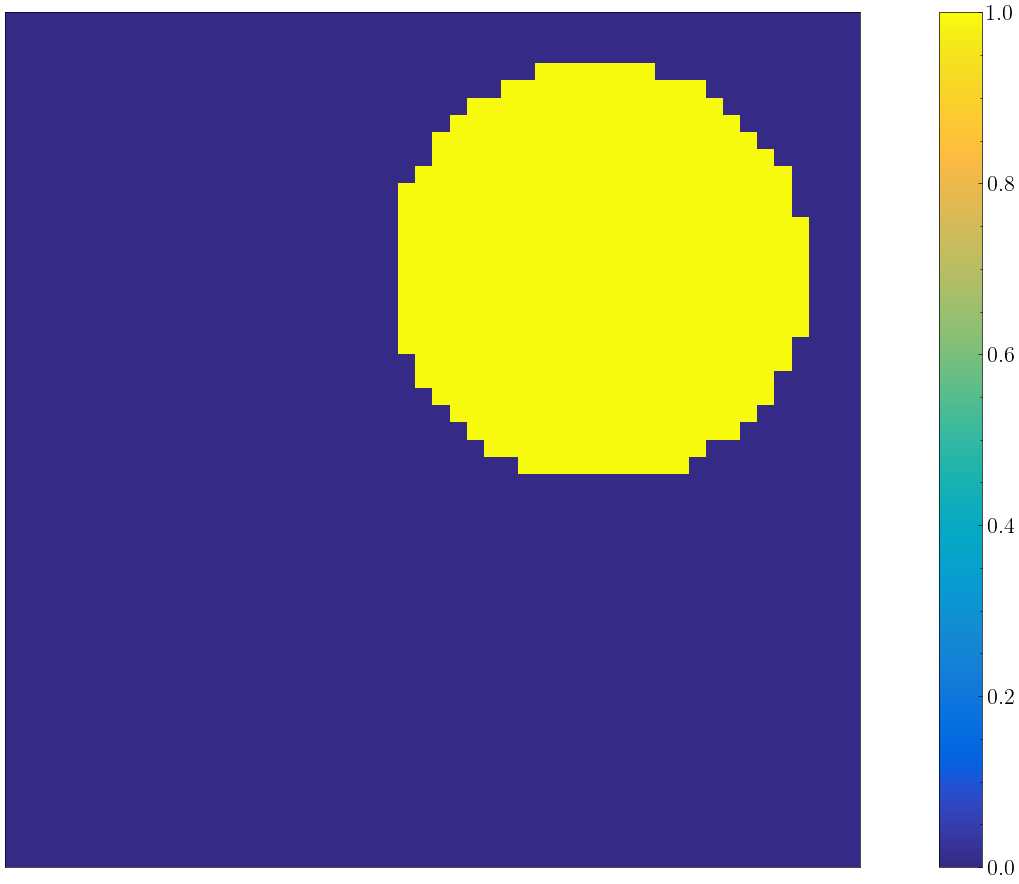
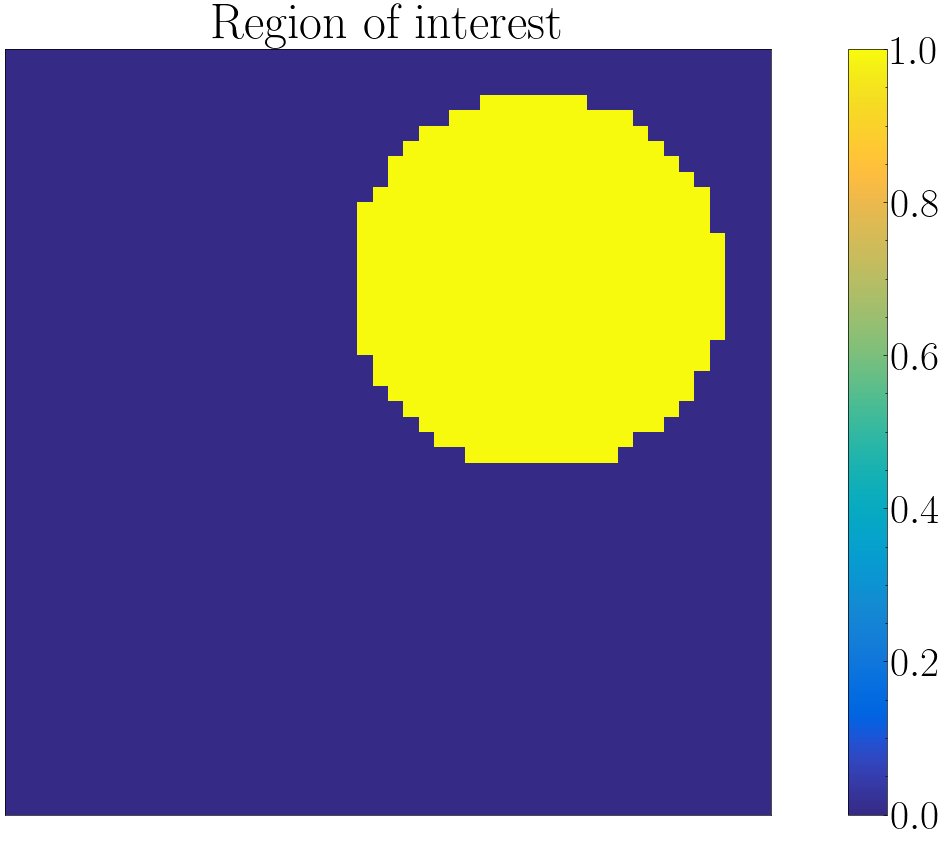
New experiments

diff --git a/Code/TVpriorAlgorithm.py b/Code/TVpriorAlgorithm.py
@@ -31,7 +31,7 @@ def run_algorithm():
     PLOT_TARGET = True
     CALCULATE_PROJECTION_MATRICIES = True  # calculate the x ray matrix again or read from memory
     TRACK_PHI_A = True  # track the target function on every picture during gradient descent
-    PLOT_COVARIANCE = True  # Take 4 samples from the posterior covariance matrix
+    PLOT_COVARIANCE = False  # Take 4 samples from the posterior covariance matrix
     PLOT_STD = True  # Reconstruct the image based on the standard deviations
     PLOT_D = True  # plot the vector d as a function of it's indicies
     PLOT_RECONSTRUCTION = True  # plot the posterior mean of the distribution for the image
@@ -46,15 +46,15 @@ def run_algorithm():
     # line search parameters
     max_length = 10
     barrier_const = 0.00001
-    dose_limit = 100_000
-    initial_d = 0.1
+    dose_limit = 1_000_000
+    initial_d = 0.05
     epsilon_d = 1e-6
 
     # initialise parameters for algorithm
     learning_rate = 0.01
     relative_tolerance = 0.001
     rng = np.random.default_rng(1)
-    number_of_rounds = 10
+    number_of_rounds = 6
     iter_per_round = 20
 
     # parameters for lagged diffusivity iteration
@@ -69,7 +69,7 @@ def run_algorithm():
     coordinates = np.column_stack([X.ravel(), Y.ravel()])
 
     # define ROI
-    ROI = "whole"
+    ROI = "center circle"
     if ROI == "whole":
         A = np.ones((N, N))
     elif ROI == "offset circle":
@@ -90,7 +90,7 @@ def run_algorithm():
     A = csc_array(np.diag(A)) # after this A is the same as Weight in matlab
 
     # define the target
-    TARGET = "horseshoe"
+    TARGET = "shepp-logan-phantom"
     if TARGET == "bar":
         target_data = np.logical_and((np.abs(Y + 0.2) < 0.05), np.abs(X) < 0.45)
     elif TARGET == "circle":
@@ -279,6 +279,11 @@ def run_algorithm():
         gamma_noise = np.diag(d ** 2) + epsilon * np.eye(k * m)
         sample_noise = rng.multivariate_normal(noise_mean, gamma_noise, method='cholesky')
         sample_y = R_k @ target_data + sample_noise
+        plt.plot(R_k @ target_data, label="true")
+        plt.plot(sample_y, label="sample")
+        plt.plot(sample_noise, label="noise")
+        plt.legend()
+        plt.show()
 
         # determine the current posterior mean and covariance matrix
         x_posterior = compute_reco(R_k, sample_y, gamma_noise, inv_gamma_prior, T, gamma, N, tau)
@@ -360,7 +365,7 @@ def plot_d(d, k, m):
 def plot_reconstruction(x_prior, N):
     reconstruction = x_prior.reshape(N, N, order='F')
     fig, ax = plt.subplots()
-    im = ax.imshow(reconstruction, cmap=parula_map, interpolation='nearest', origin='lower')#, vmin=0, vmax=1)
+    im = ax.imshow(reconstruction, cmap=parula_map, interpolation='nearest', origin='lower', vmin=0, vmax=1)
     fig.colorbar(im, ax=ax)
     ax.set_title("ROI reconstruction")
 

diff --git a/Code/Algorithm.py b/Code/Algorithm.py
@@ -42,19 +42,19 @@ def run_algorithm():
     m = 40  # number of sensors
     epsilon = 1e-10
     offset_range = 0.8  # the maximum and minimum offset
-    initial_d = 0.1
+    initial_d = 0.5
     epsilon_d = 1e-6
     # line search parameters
     max_length = 10
     barrier_const = 0.00001
-    dose_limit = 100_000
+    dose_limit = 200_000
 
     # initialise parameters for algorithm
     learning_rate = 0.01
     relative_tolerance = 0.001
     iter_per_round = 20
     rng = np.random.default_rng(1)
-    number_of_rounds = 10
+    number_of_rounds = 6
 
     # define the grid
     x = np.linspace(-0.5, 0.5, N)
@@ -63,11 +63,11 @@ def run_algorithm():
     coordinates = np.column_stack([X.ravel(), Y.ravel()])
 
     # define the priors
-    gamma_prior = gaussian_distance_covariance(coordinates, 1, 0.1) + epsilon * np.eye(n)
+    gamma_prior = gaussian_distance_covariance(coordinates, 1, 0.05) + epsilon * np.eye(n)
     noise_mean = np.zeros(k * m)
 
     # define ROI
-    ROI = "whole"
+    ROI = "center circle"
     if ROI == "whole":
         A = np.ones((N, N))
     elif ROI == "offset circle":
@@ -89,7 +89,7 @@ def run_algorithm():
     A = csr_array(np.diag(A)) # after this A is the same as Weight in matlab
 
     # define the target
-    TARGET = "horseshoe"
+    TARGET = "shepp-logan-phantom"
     if TARGET == "bar":
         target_data = np.logical_and((np.abs(Y + 0.2) < 0.05), np.abs(X) < 0.45)
     elif TARGET == "circle":
